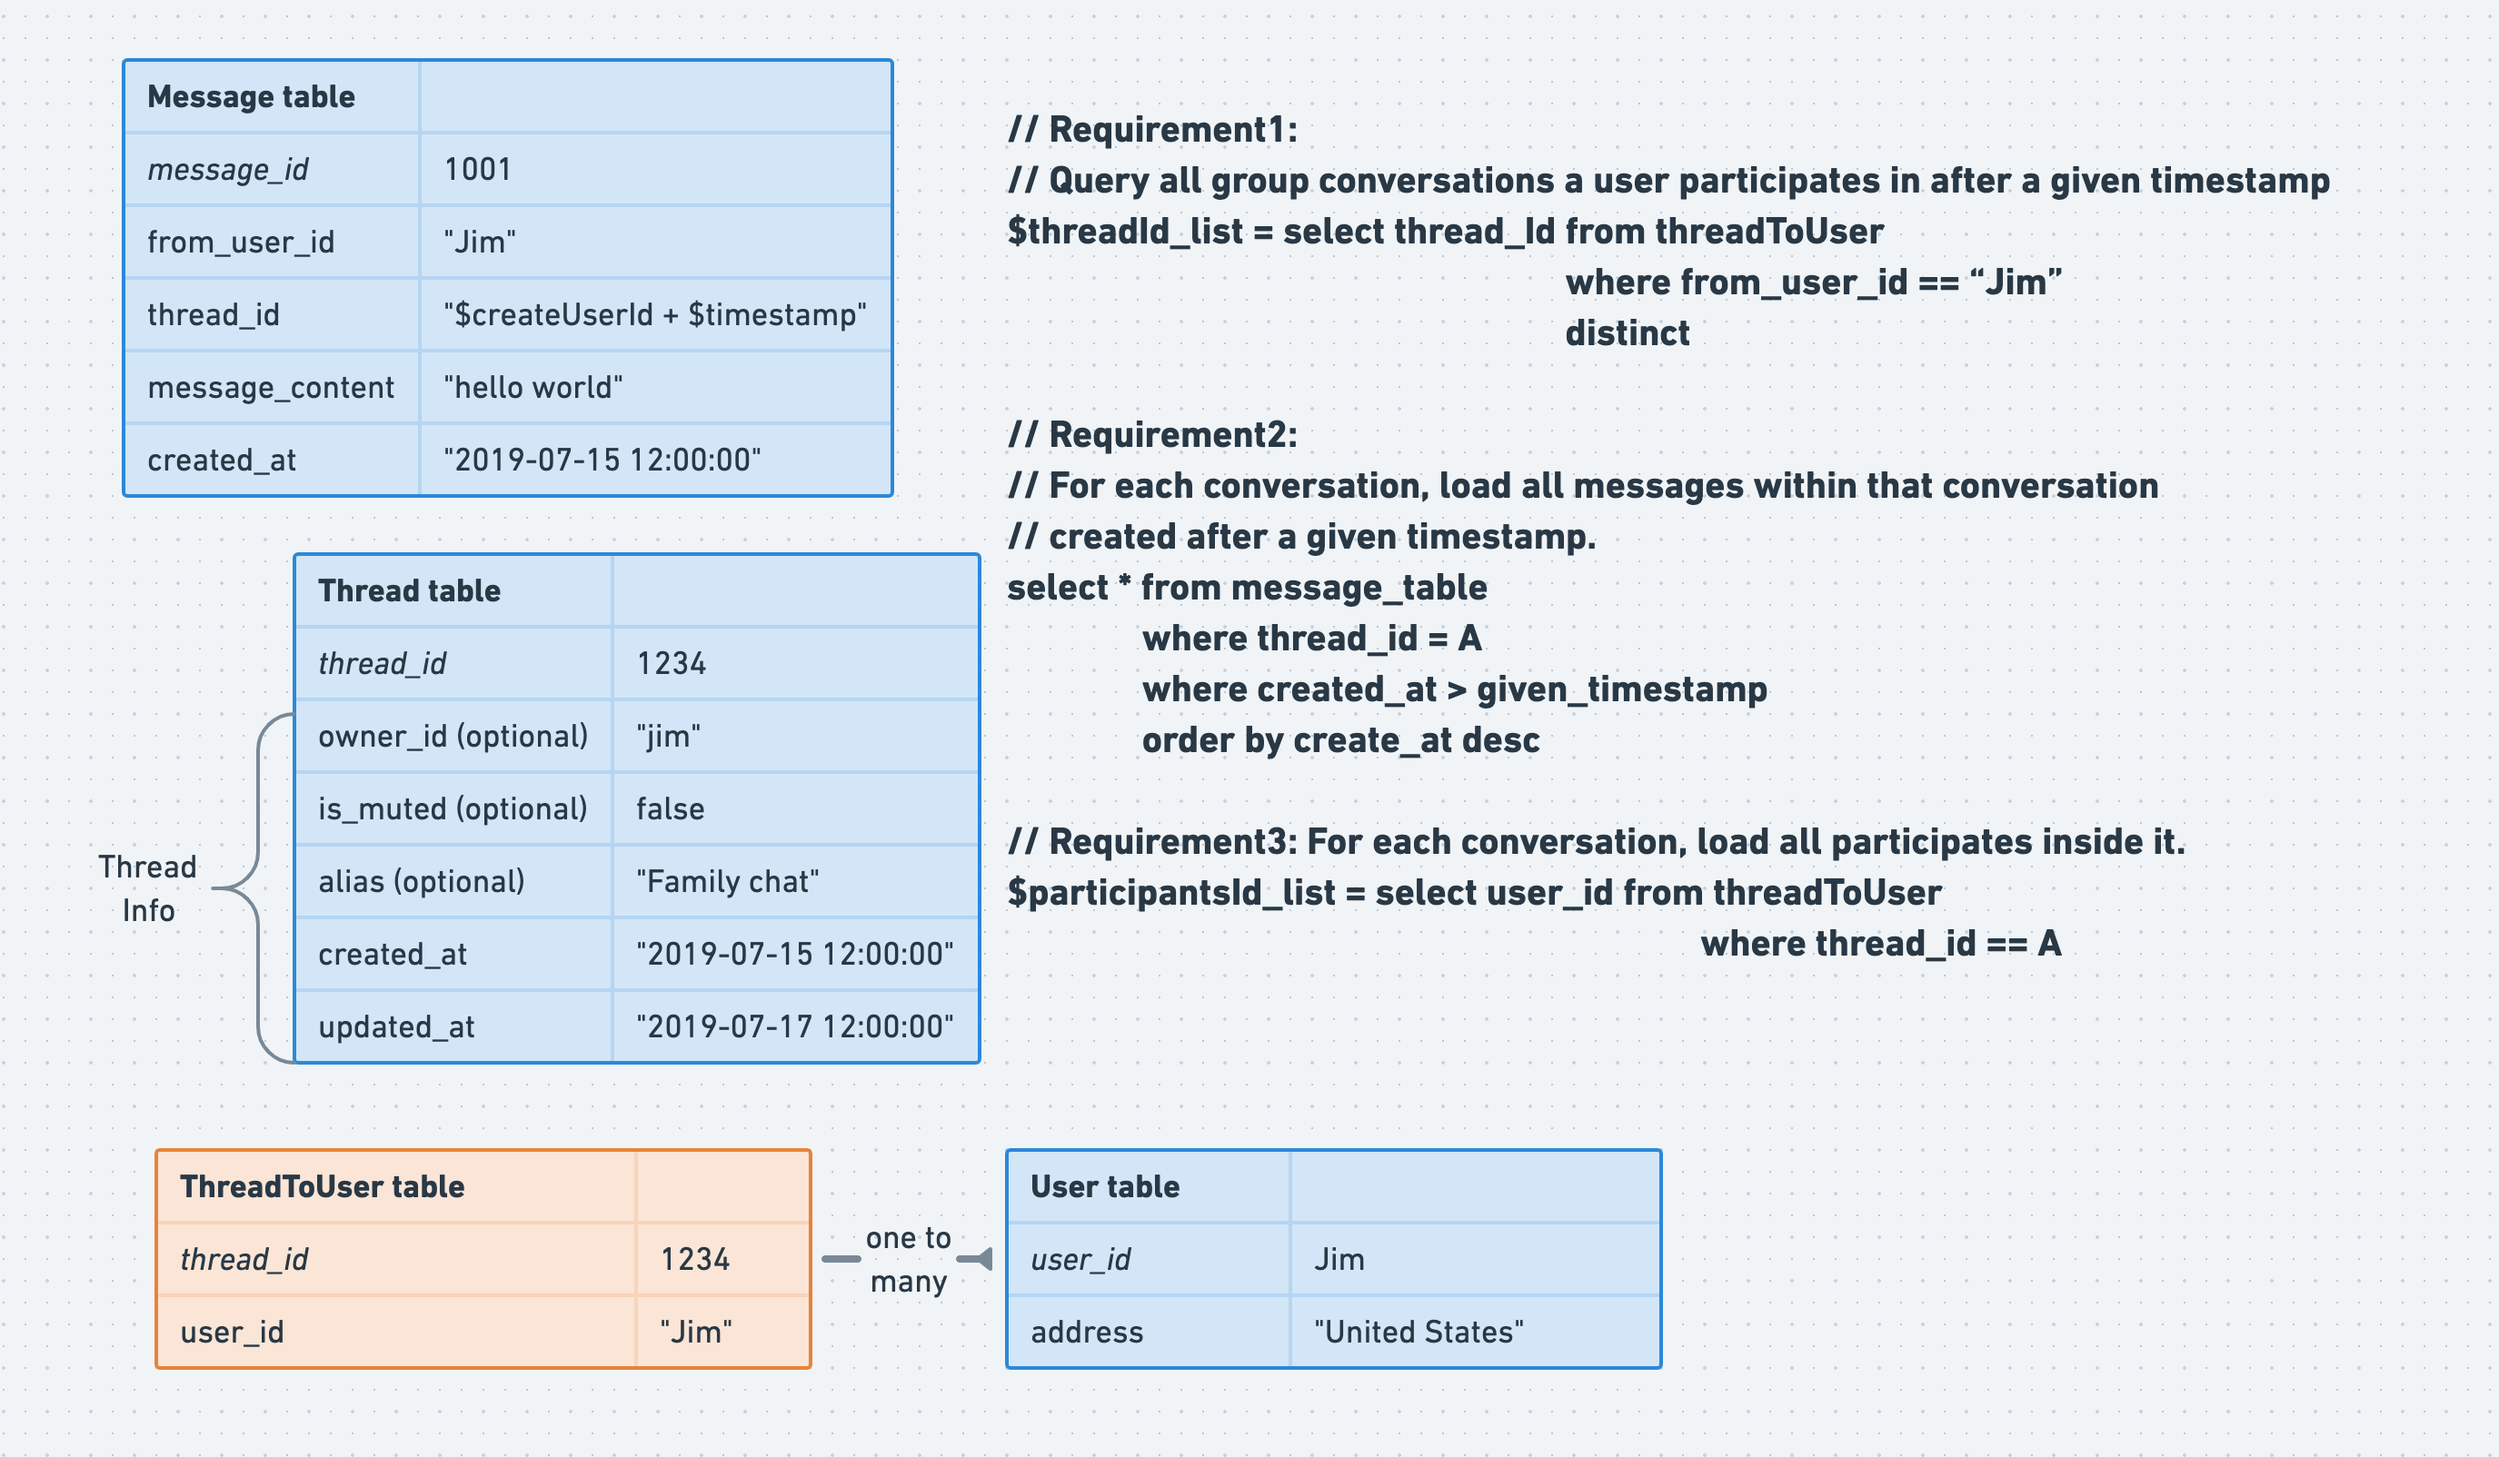
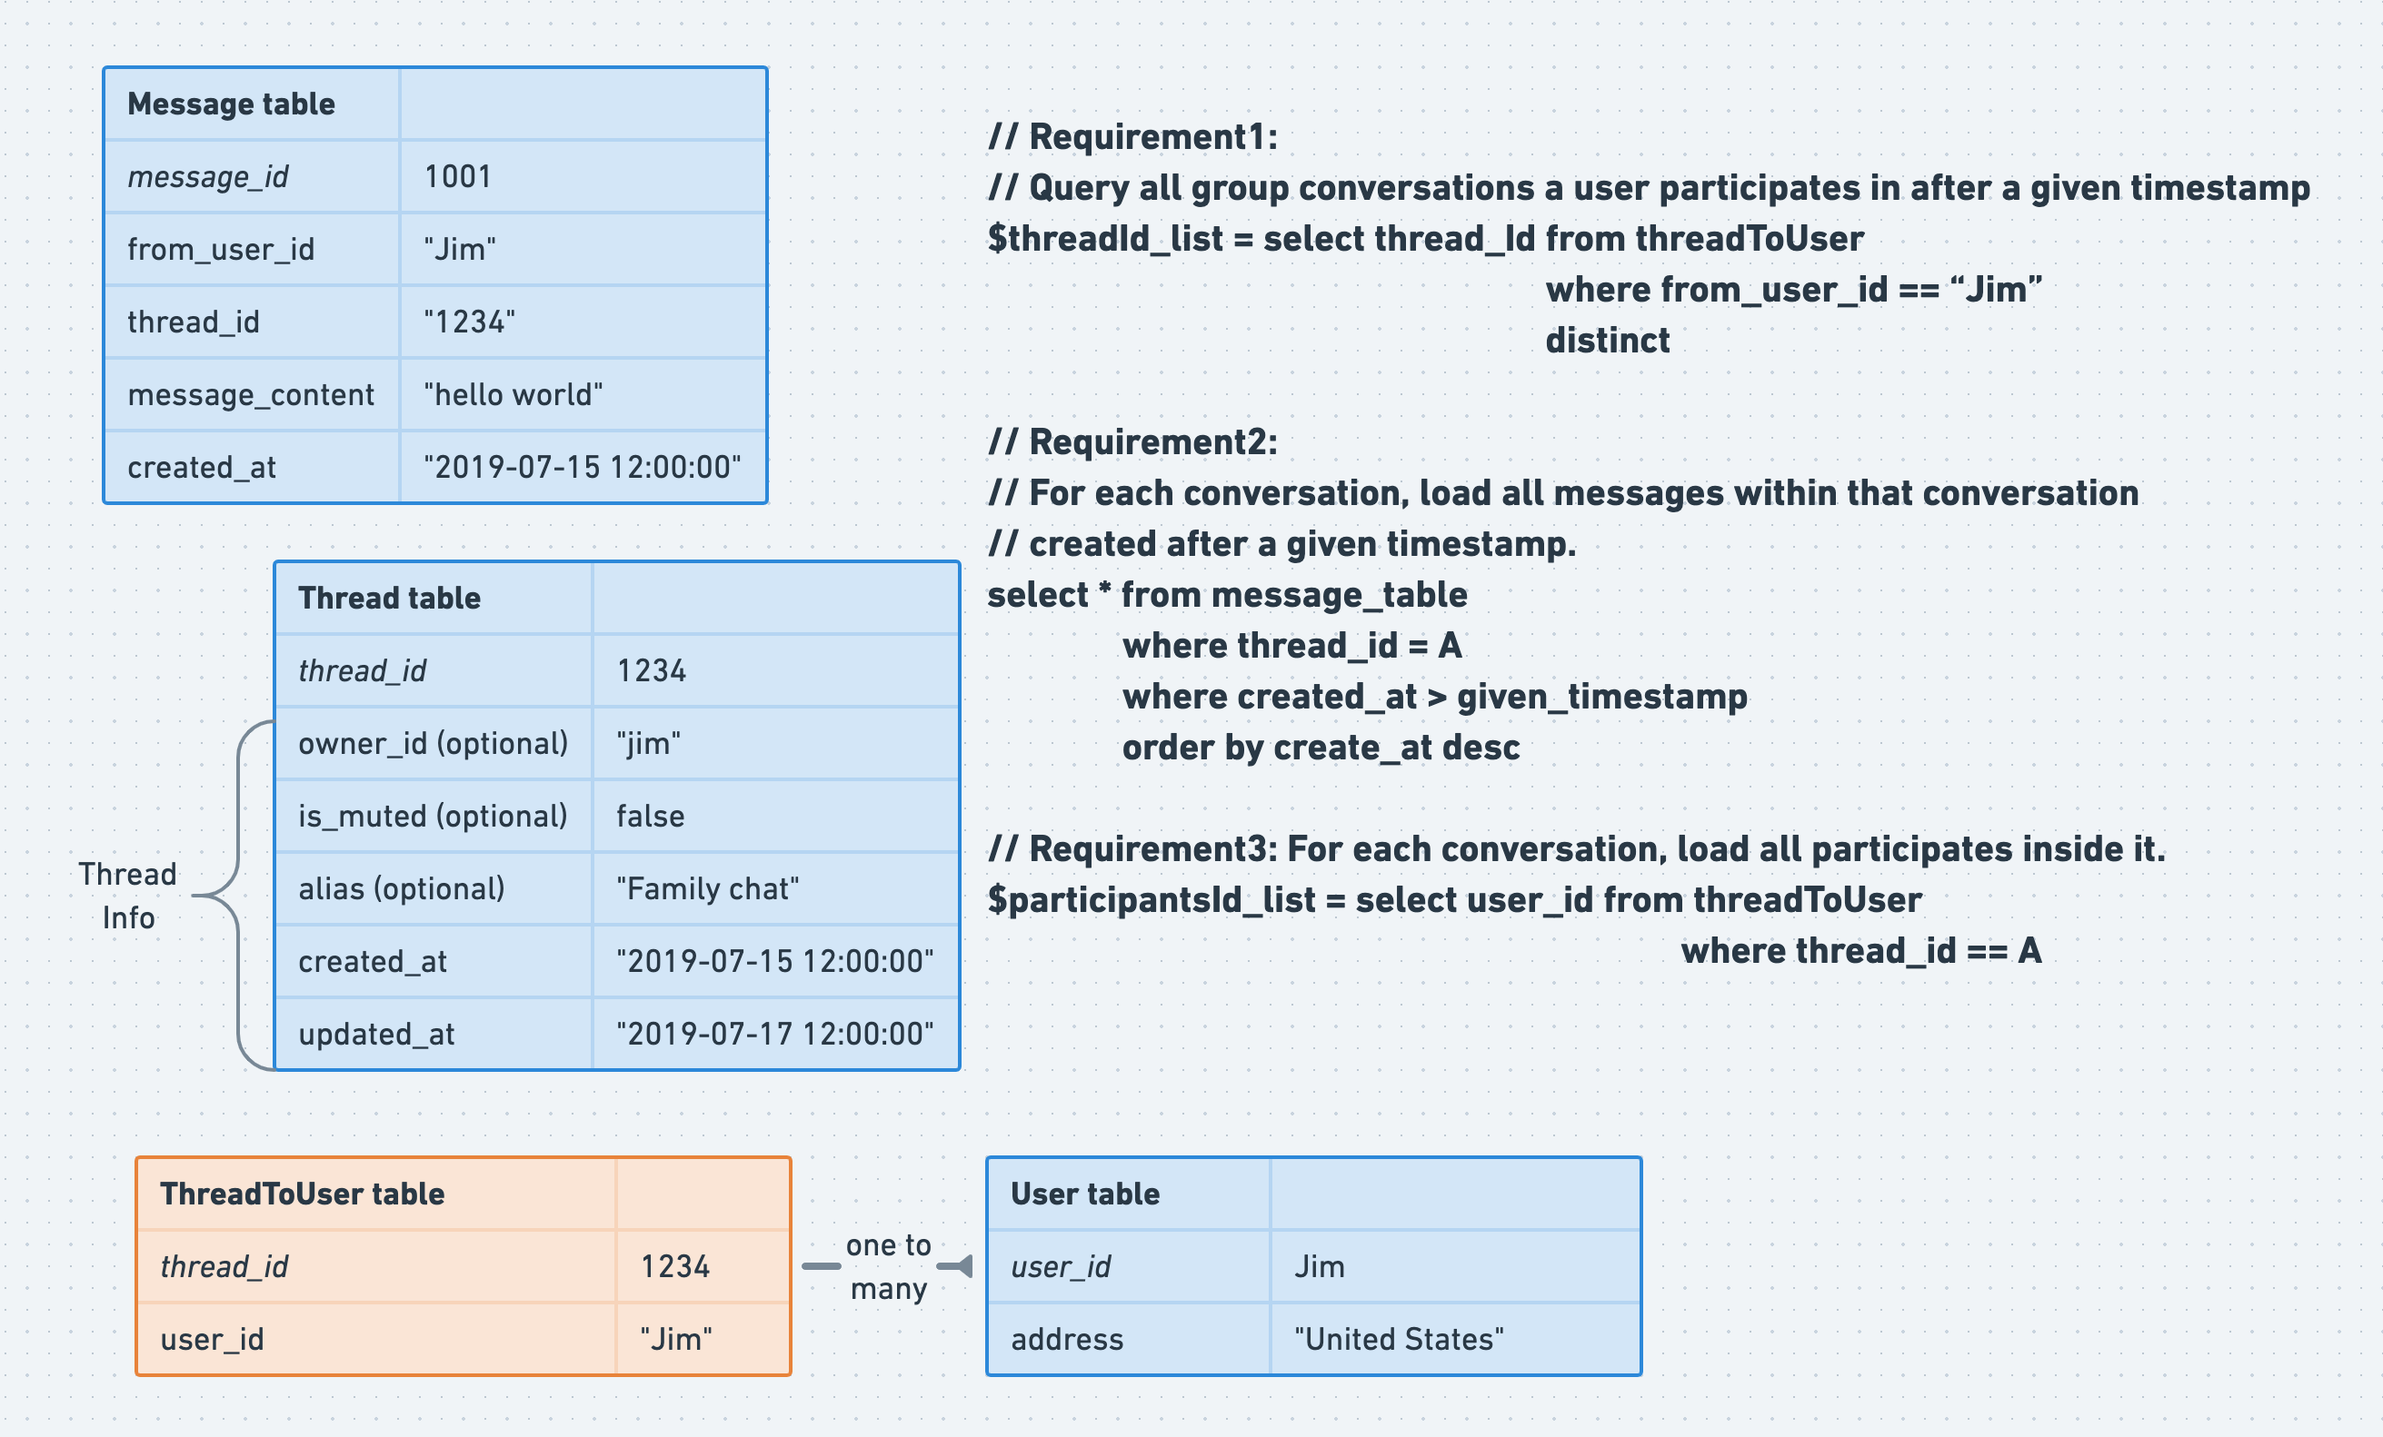
refactor

Changed region(s): [[0.0309, 0.031, 0.8959, 0.7434], [0.0309, 0.7743, 0.7105, 0.9602], [0.4016, 0.0619, 0.9886, 0.2478]]

diff --git a/scenario_messenger/Storage_RecentContact.md b/scenario_messenger/Storage_RecentContact.md
@@ -5,7 +5,8 @@
 - [Group recent contact storage](#group-recent-contact-storage)
   - [Storage requirements](#storage-requirements-1)
   - [Initial schema](#initial-schema-1)
-  - [Normalization](#normalization)
+  - [Improved by extracting participates into separate table](#improved-by-extracting-participates-into-separate-table)
+  - [Improved by querying message table only with primary key](#improved-by-querying-message-table-only-with-primary-key)
 
 # One-to-One recent contact storage
 ## Storage requirements
@@ -36,6 +37,12 @@
 
 ![](../.gitbook/assets/im_groupchat_recentContact_group.png)
 
-## Normalization
+## Improved by extracting participates into separate table 
+* Cons of the schema: 
+  * Message table is really big. Each time when querying message table, need to rely on thread id which relies on secondary index. It won't be really efficient. 
 
 ![](../.gitbook/assets/im_groupchat_recentContact_group_normalize.png)
+
+## Improved by querying message table only with primary key
+
+![](../.gitbook/assets/im_groupchat_recentContact_group_message_primarykey.png)
